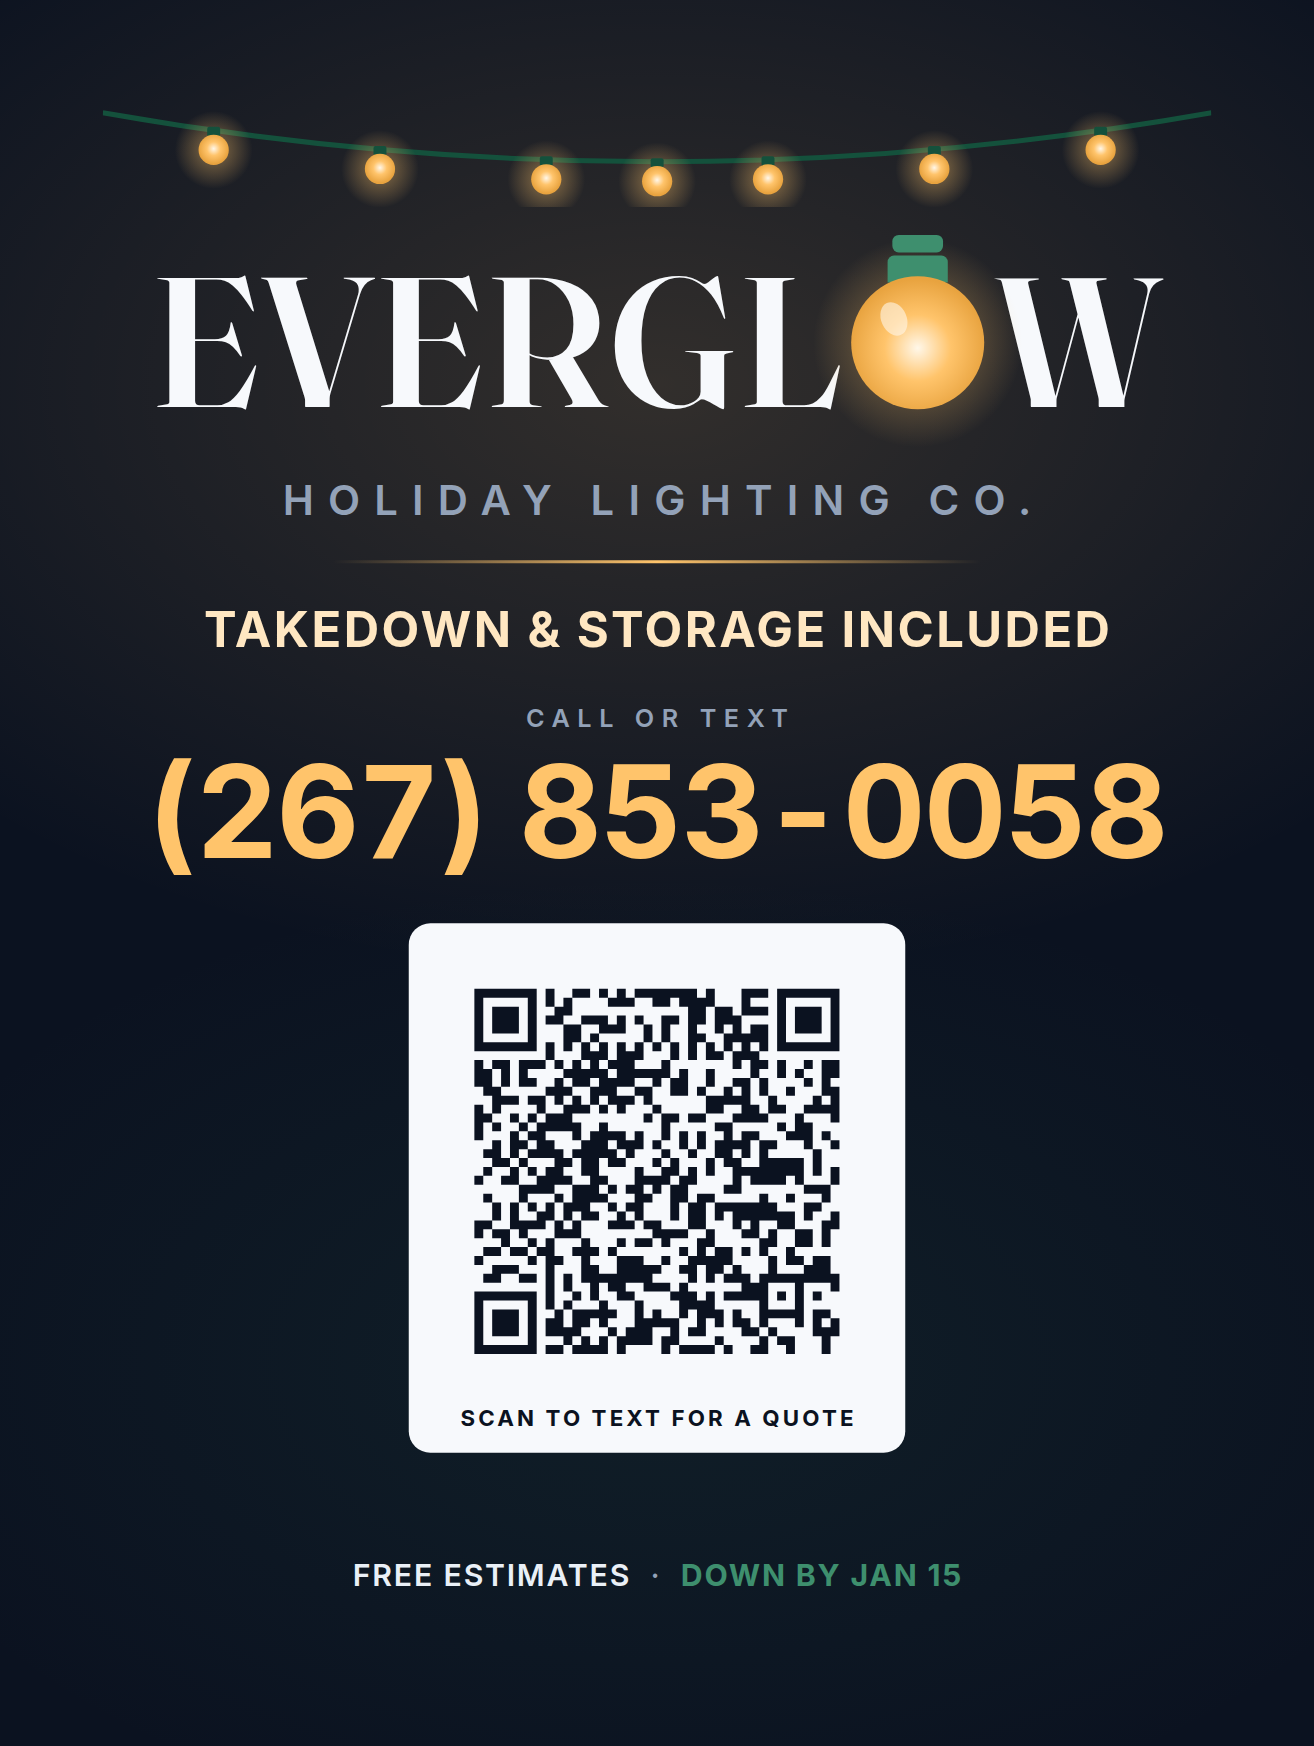
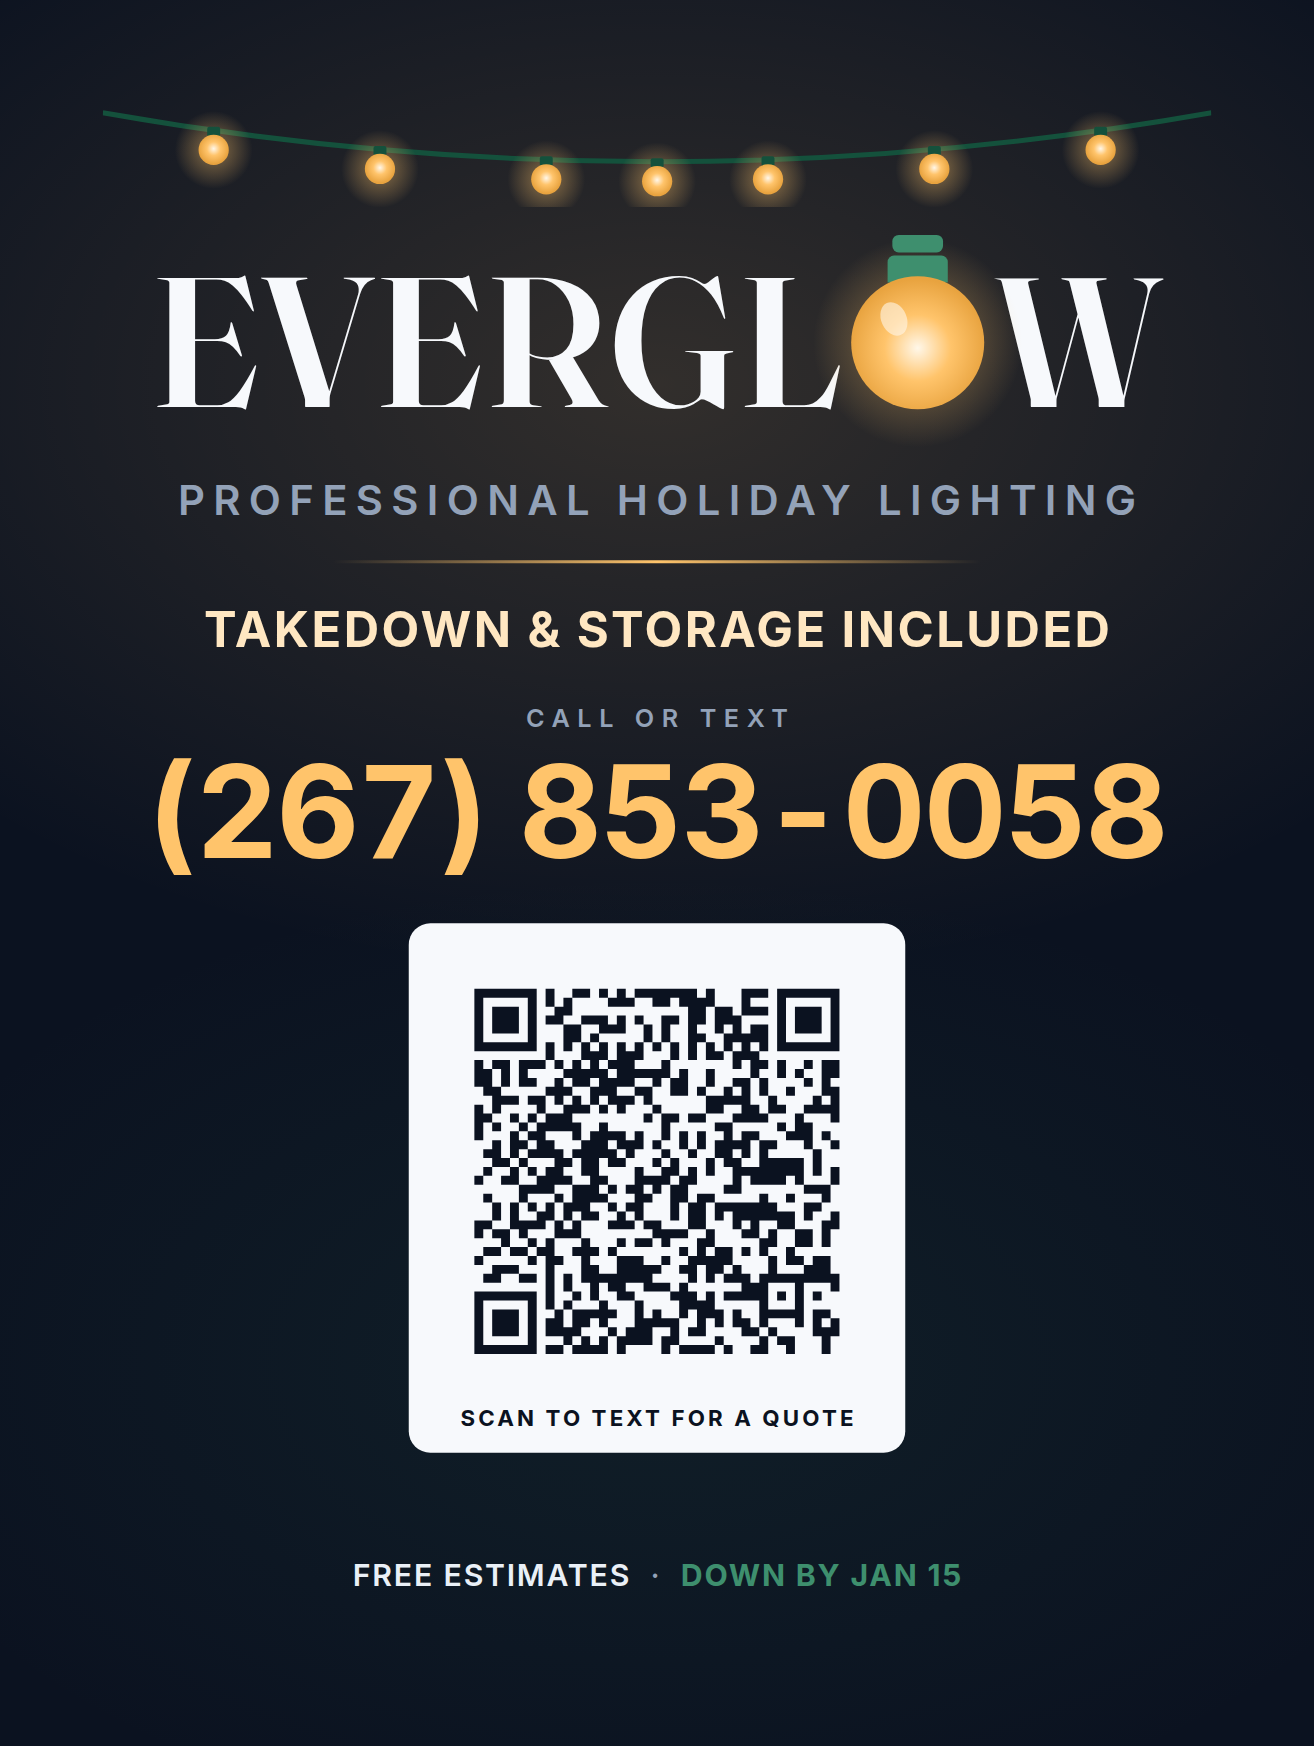
Finalize the 18x24 sign: "Professional Holiday Lighting" lockup
The descriptor under the wordmark becomes "PROFESSIONAL HOLIDAY
LIGHTING" and drops "CO." A stranger reading a lawn at 40ft needs the
trade before the legal form, and EVERGLOW alone does not supply it.

The line runs 29 characters against the old 20, so tracking tightens
from .34em to .2em on both faces rather than shrinking type that was
just enlarged for exactly this read. It lands at 13.54in against a
15.4in safe area.

Footer strip settles at FREE ESTIMATES / DOWN BY JAN 15.

Recorded the lockup divergence in the brand guide as a deliberate
signage variant, and corrected the yard-sign spec in the lead-gen
playbook, which still described a URL the sign no longer carries.

Final state verified: 2 pages at 18.25 x 24.25in (18x24 trim plus
.125in bleed), 4 fonts embedded, both QRs decoding, nothing below
22.13in.

Claude-Session: https://claude.ai/code/session_01Gpim63ZfjvXt5arKfqMSew

Changed region(s): [[0.1248, 0.2784, 0.8737, 0.3093]]

diff --git a/assets/print/yard-sign.html b/assets/print/yard-sign.html
@@ -100,8 +100,8 @@
     margin-top:.44in;
     font-size:.58in;
     font-weight:600;
-    letter-spacing:.34em;
-    text-indent:.34em;      /* balances the trailing letterspace so it stays centred */
+    letter-spacing:.2em;
+    text-indent:.2em;      /* balances the trailing letterspace so it stays centred */
     color:var(--slate);
   }
   .rule{
@@ -181,7 +181,7 @@
   .back .trim{padding-bottom:2in}
   .back .wordmark{font-size:1.42in;margin-top:.1in}
   .back .wordmark .bulb-o{width:1.23in;height:1.57in;top:-.156in;margin:0 -.04in}
-  .back .sub{font-size:.32in;margin-top:.26in;letter-spacing:.3em;text-indent:.3em}
+  .back .sub{font-size:.32in;margin-top:.26in;letter-spacing:.2em;text-indent:.2em}
   .back .rule{margin-top:.62in}
   .back .headline{
     margin-top:.72in;
@@ -277,7 +277,7 @@
       </svg>
       <span>W</span>
     </div>
-    <div class="sub">HOLIDAY LIGHTING CO.</div>
+    <div class="sub">PROFESSIONAL HOLIDAY LIGHTING</div>
 
     <div class="rule"></div>
     <div class="promise">TAKEDOWN &amp; STORAGE INCLUDED</div>
@@ -316,7 +316,7 @@
       </svg>
       <span>W</span>
     </div>
-    <div class="sub">HOLIDAY LIGHTING CO.</div>
+    <div class="sub">PROFESSIONAL HOLIDAY LIGHTING</div>
 
     <div class="rule"></div>
 

diff --git a/docs/BRAND_GUIDE.md b/docs/BRAND_GUIDE.md
@@ -155,6 +155,10 @@ The palette is **a winter night, lit from within.** Dark ground, warm light. It'
 
 **Lockups:**
 - **Primary** — wordmark + "HOLIDAY LIGHTING CO." in Inter, letterspaced, centered beneath.
+- **Signage variant** — on the yard sign and anything else read at distance by strangers,
+  the descriptor becomes **"PROFESSIONAL HOLIDAY LIGHTING"** and drops "CO." A passer-by
+  needs to know the trade before they need the legal form. Tracking tightens to .2em so the
+  longer line still fits the safe area.
 - **Horizontal** — bulb mark, then wordmark, then rule, then "HOLIDAY LIGHTING CO." Use in the site header and email signature.
 - **Mark only** — the glowing bulb in a circle. Use for the favicon, social avatar, hard hat sticker, and yard-sign corner.
 
@@ -192,7 +196,7 @@ Blue hour is the ~25 minutes after sunset when the sky is deep blue but still ho
 | --- | --- |
 | **Truck / trailer** | Midnight wrap, oversized Bulb mark on the rear door, wordmark on both sides, phone + `everglowlighting.com` in Snow at 6" cap height. The trailer is a rolling billboard that parks in your best neighborhoods for 8 hours a day — treat it as your #1 ad buy. |
 | **Crew uniform** | Midnight quarter-zip or hoodie, Bulb mark embroidered left chest, wordmark across the back. Warm hat in Pine. Uniforms are a trust device — a homeowner letting strangers onto their roof needs to see them. |
-| **Yard sign** | 18×24, Midnight ground, lit-bulb wordmark, the takedown promise, the phone at 1.3in caps, and a QR to the quote form. Placed at every job with permission. Expect 1 lead per 6–8 signs per season. **Built and ready to print: `assets/print/yard-sign.pdf` — spec in [`YARD_SIGN.md`](YARD_SIGN.md).** |
+| **Yard sign** | 18×24, Midnight ground, lit-bulb wordmark, the takedown promise, the phone at 1.3in caps, and a QR that opens a prefilled text message. Placed at every job with permission. Expect 1 lead per 6–8 signs per season. **Built and ready to print: `assets/print/yard-sign.pdf` — spec in [`YARD_SIGN.md`](YARD_SIGN.md).** |
 | **Door hanger** | For the 8 houses either side of every install. Headline: *"We just lit up your neighbor's house."* |
 | **Estimate PDF** | Branded cover, blue-hour photo of a comparable home, itemized scope, the four guarantees, one-click accept link. |
 | **Thank-you card** | Handwritten, mailed within 3 days of install, with two referral cards enclosed. |

diff --git a/docs/YARD_SIGN.md b/docs/YARD_SIGN.md
@@ -26,6 +26,7 @@ So the front carries five things and nothing else, in the order a stranger reads
 | --- | --- | --- |
 | 1 | Lit-bulb string across the top | Says "Christmas lights" before a single word is read |
 | 2 | **EVERGLOW** wordmark, 1.8in caps | Legible at ~60ft. The O is the brand's lit bulb. |
+| 2b | PROFESSIONAL HOLIDAY LIGHTING | The name alone doesn't say what you do. This line does, at .58in caps. |
 | 3 | TAKEDOWN & STORAGE INCLUDED | The one thing no competitor offers. It is the whole positioning. |
 | 4 | **(267) 853-0058**, 1.3in caps | The biggest actionable thing on the sign |
 | 5 | QR in a white panel | The walk-up ask, for people who won't dial a stranger but will text one |
@@ -163,7 +164,7 @@ Two lines were deliberately left off. Both are easy to add back.
 **The web address.** `everglowlighting.com` does not resolve yet. A printed URL
 that goes nowhere is the one claim a skeptical homeowner can disprove in three
 seconds, and a sign is permanent in a way a webpage isn't. The footer carries
-`FREE ESTIMATES · NO LADDERS · DOWN BY JAN 15` instead — all true today. Put the
+`FREE ESTIMATES · DOWN BY JAN 15` instead — both true today. Put the
 domain back for next season's print run once the site is live.
 
 **"Licensed & insured to $2M."** This is an advertising claim about your

diff --git a/docs/LEAD_GENERATION.md b/docs/LEAD_GENERATION.md
@@ -42,7 +42,8 @@ For local service searches, the GBP map pack outranks everything, including your
 
 ### 3. Yard signs at every job
 
-- 18×24, Midnight ground, Bulb mark, **"Lights by Everglow"** + phone + short URL.
+- 18×24, Midnight ground, lit-bulb wordmark, **"PROFESSIONAL HOLIDAY LIGHTING"** + the
+  takedown promise + phone + a QR that opens a prefilled text. Built: `assets/print/yard-sign.pdf`.
 - Ask permission during the walkthrough: *"Mind if we leave a small sign by the driveway through the season? We'll pull it at takedown."* ~70% say yes.
 - Expect **~1 lead per 6–8 signs**, and those leads close at a very high rate because they've seen your actual work on their own street.
 
